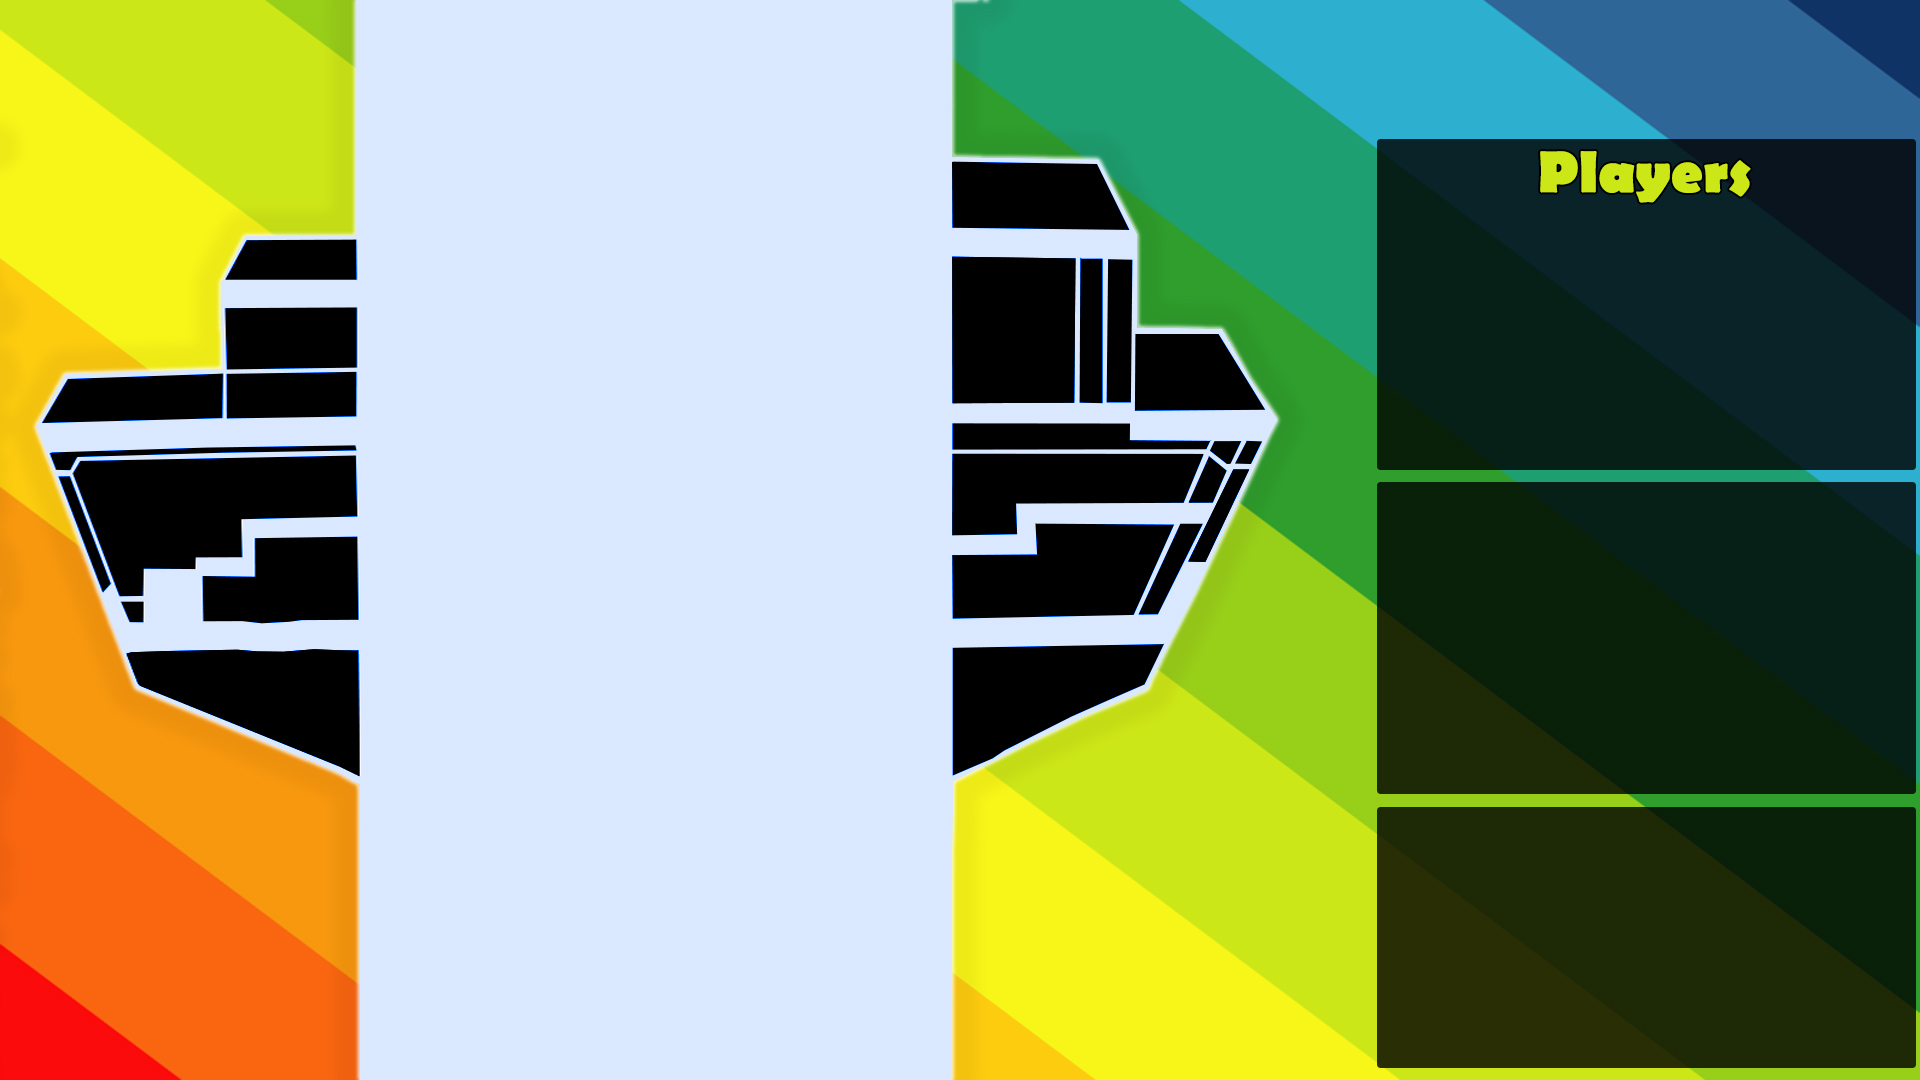
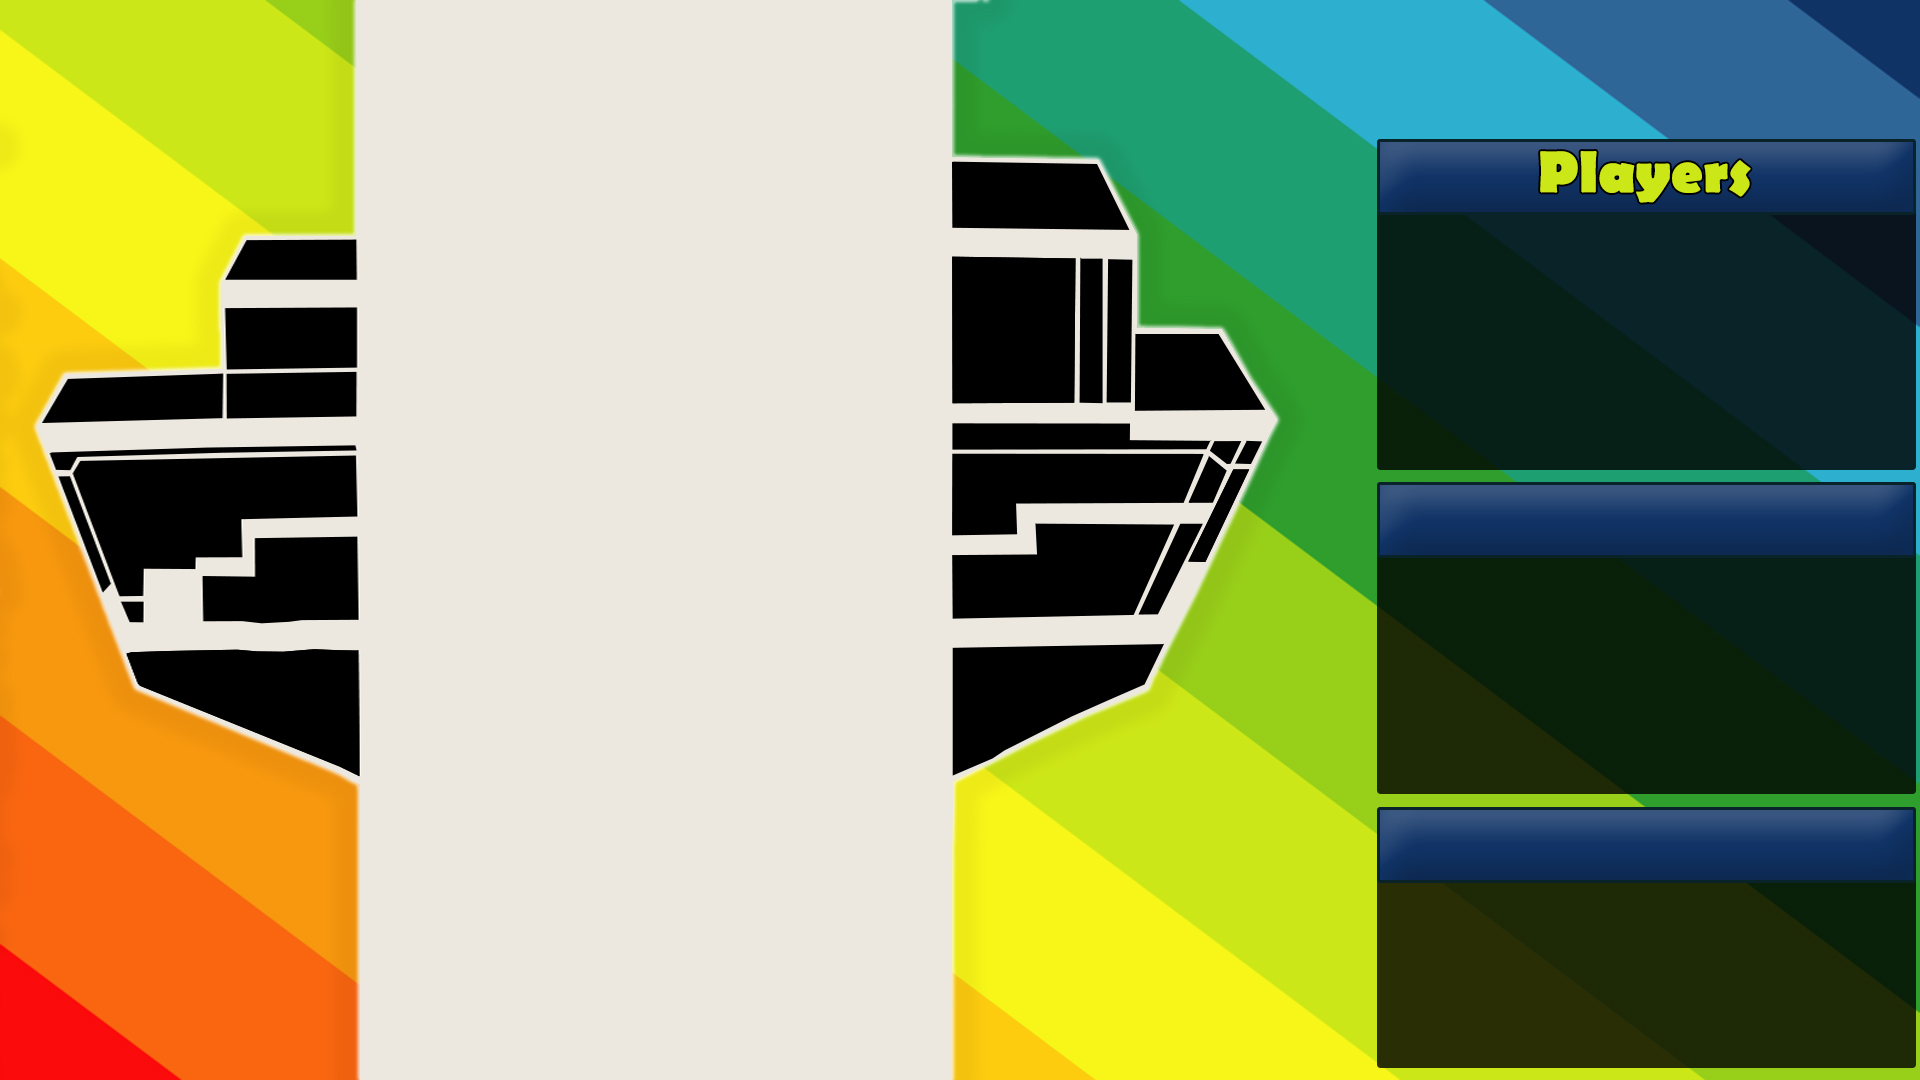
added new bg for gameboard. adjust playernames positions

diff --git a/Final/main.py b/Final/main.py
@@ -139,27 +139,27 @@ class Game:
                 self.P1.Update()
                 self.P1.Draw(self.screen, self.width * self.tile_width, self.height * self.tile_height,
                              self.width * self.grid_pos_x, self.height * self.grid_pos_y)
-                p1name = IText(self.width * 0.75, self.height * 0.18, "#1 " + self.P1.Name, int(self.width * 0.03), 0,
+                p1name = IText(self.width * 0.75, self.height * 0.20, "#1 " + self.P1.Name, int(self.width * 0.03), 0,
                                self.P1.Colour)
                 p1name.draw(self.screen)
                 self.P2.Update()
                 self.P2.Draw(self.screen, self.width * self.tile_width, self.height * self.tile_height,
                              self.width * self.grid_pos_x, self.height * self.grid_pos_y)
-                p2name = IText(self.width * 0.75, self.height * 0.24, "#2 " + self.P2.Name, int(self.width * 0.03), 0,
+                p2name = IText(self.width * 0.75, self.height * 0.255, "#2 " + self.P2.Name, int(self.width * 0.03), 0,
                                self.P2.Colour)
                 p2name.draw(self.screen)
                 if self.players >= 3:
                     self.P3.Update()
                     self.P3.Draw(self.screen, self.width * self.tile_width, self.height * self.tile_height,
                                  self.width * self.grid_pos_x, self.height * self.grid_pos_y)
-                    p3name = IText(self.width * 0.75, self.height * 0.30, "#3 " + self.P3.Name, int(self.width * 0.03),
+                    p3name = IText(self.width * 0.75, self.height * 0.310, "#3 " + self.P3.Name, int(self.width * 0.03),
                                    0, self.P3.Colour)
                     p3name.draw(self.screen)
                     if self.players == 4:
                         self.P4.Update()
                         self.P4.Draw(self.screen, self.width * self.tile_width, self.height * self.tile_height,
                                      self.width * self.grid_pos_x, self.height * self.grid_pos_y)
-                        p4name = IText(self.width * 0.75, self.height * 0.36, "#4 " + self.P4.Name, int(self.width * 0.03),
+                        p4name = IText(self.width * 0.75, self.height * 0.365, "#4 " + self.P4.Name, int(self.width * 0.03),
                                    0, self.P4.Colour)
                         p4name.draw(self.screen)
 
@@ -240,7 +240,7 @@ class Game:
         self.TD_L = Textbg(self.width * 0.77, self.height * 0.755, self.width * 0.19, self.height * 0.05, I15)
         self.AR_L = Button(self.width * 0.76, self.height * 0.88, self.width * 0.065, self.height * 0.085, I16)
         self.AR_R = Button(self.width * 0.90, self.height * 0.88, self.width * 0.065, self.height * 0.085, I17)
-        self.AR_U = Button(self.width * 0.83, self.height * 0.82, self.width * 0.065, self.height * 0.085, I18)
+        self.AR_U = Button(self.width * 0.83, self.height * 0.83, self.width * 0.065, self.height * 0.085, I18)
         self.CA1_L = Textbg(self.width * 0.46, self.height * 0.147, self.width * 0.028, self.height * 0.051, I20)
         self.CA1_R = Textbg(self.width * 0.58, self.height * 0.147, self.width * 0.028, self.height * 0.051, I21)
         self.CA2_L = Textbg(self.width * 0.46, self.height * 0.247, self.width * 0.028, self.height * 0.051, I20)
